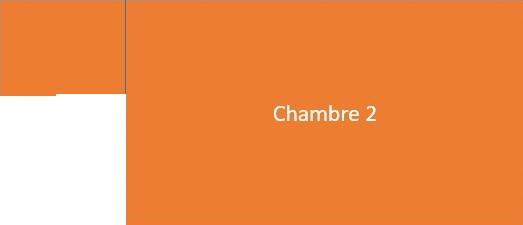
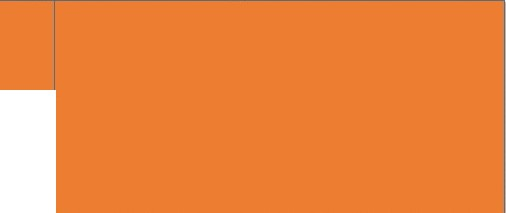
Ajout d'une animation à la page Disponibilite et des liens sur la page descriptif 2

Changed region(s): [[0.0, 0.0, 1.0, 1.0], [0.504, 0.4507, 0.7411, 0.5634]]

diff --git a/src/views/DescriptionView.vue b/src/views/DescriptionView.vue
@@ -193,6 +193,7 @@
                               data-aos="fade-left"
                               data-aos-duration="500"
                               data-aos-easing="ease-in"
+                              class="blinking"
                         >
                               Passer la souris sur le plan pour plus de détails
                         </div>
@@ -241,12 +242,13 @@
                                     data-aos="fade-left"
                                     data-aos-duration="500"
                                     data-aos-easing="ease-in-out"
+                                    :id="description.class"
                               >
                                     {{ description.details }}
                               </li>
 
                               <div
-                                    class="plan"
+                                    class="plan mt-2"
                                     data-aos="fade-left"
                                     data-aos-duration="500"
                                     data-aos-easing="ease-in"
@@ -256,7 +258,14 @@
                                           alt="Plan du 1er étage"
                                     />
                                     <div>
-                                          <button v-on:click="afficheChambre1">
+                                          <button
+                                          v-on:mouseenter="
+                                                afficheChambre2EtageItems
+                                          "
+                                          v-on:mouseleave="
+                                                supprimeChambre2EtageItemsStyle
+                                          "
+                                          >
                                                 <a
                                                       href="/descriptifs/gallerie#chambre1"
                                                 >
@@ -264,11 +273,19 @@
                                                             src="../assets/Etage/etage1_chambre1.jpg"
                                                             alt=""
                                                             class="plan__chambre1"
+                  
                                                       />
                                                 </a>
                                           </button>
 
-                                          <button>
+                                          <button
+                                          v-on:mouseenter="
+                                                afficheChambre1EtageItems
+                                          "
+                                          v-on:mouseleave="
+                                                supprimeChambre1EtageItemsStyle
+                                          "
+                                          >
                                                 <a
                                                       href="/descriptifs/gallerie#chambre2"
                                                 >
@@ -453,8 +470,6 @@ export default {
             };
 
 
-            //
-
             // La salle de bain du rez de chausse
             const afficheSdbRdcItems = () => {
                   const salleDeau = document.getElementById("rdc_salledeau");
@@ -474,6 +489,33 @@ export default {
                   salleDeau.classList.remove("applyActive");
 
                   wc.classList.remove("applyActive");
+            };
+
+            // La chambre 1 du 1er étage
+            const afficheChambre1EtageItems = () => {
+                  const chambre1 = document.getElementById("etage_chambre1");
+
+                  chambre1.classList.add("applyActive");
+            };
+
+            const supprimeChambre1EtageItemsStyle = () => {
+                  const chambre1 = document.getElementById("etage_chambre1");
+
+                  chambre1.classList.remove("applyActive");
+
+            };
+
+            // La chambre 2 du 1er étage
+            const afficheChambre2EtageItems = () => {
+                  const chambre2 = document.getElementById("etage_chambre2");
+
+                  chambre2.classList.add("applyActive");
+            };
+
+            const supprimeChambre2EtageItemsStyle = () => {
+                  const chambre2 = document.getElementById("etage_chambre2");
+
+                  chambre2.classList.remove("applyActive");
             };
 
             const jardinDescription = [
@@ -517,31 +559,35 @@ export default {
                   {
                         id: 1,
                         details: "1 chambre palière (1 lit 1 personne)",
+                        class: "etage_chambre1"
                   },
 
                   {
                         id: 2,
                         details: "Placard",
+                        class: "etage_placard"
                   },
 
                   {
                         id: 3,
                         details: "1 chambre (2 lits 1 personnes)",
+                        class: "etage_chambre2"
                   },
             ];
 
             const rdcDescription = [
+                  {
+                        id: 2,
+                        details: "Salon",
+                        class: "rdc_salon",
+                  },
+
                   {
                         id: 1,
                         details: "Salle à manger",
                         class: "rdc_sam",
                   },
 
-                  {
-                        id: 2,
-                        details: "Salon",
-                        class: "rdc_salon",
-                  },
 
                   {
                         id: 3,
@@ -600,6 +646,10 @@ export default {
                   supprimeSalonItemsStyle,
                   afficheSalleAMangerItems,
                   supprimeSalleAMangerItemsStyle,
+                  afficheChambre1EtageItems,
+                  supprimeChambre1EtageItemsStyle,
+                  afficheChambre2EtageItems,
+                  supprimeChambre2EtageItemsStyle
             };
       },
 };
@@ -615,6 +665,16 @@ export default {
       width: 100%;
       height: 100%;
       object-fit: contain;
+}
+
+.blinking {
+  animation: blink 2s infinite;
+}
+
+@keyframes blink {
+  0% { opacity: 1; }
+  50% { opacity: 0; }
+  100% { opacity: 1; }
 }
 
 .applyActive {
@@ -800,8 +860,8 @@ export default {
 
             &__chambre2 {
                   position: absolute;
-                  width: 55%;
-                  top: 20%;
+                  width: 50%;
+                  top: 22%;
                   right: 11%;
                   opacity: 0;
 

diff --git a/src/views/GalleryView.vue b/src/views/GalleryView.vue
@@ -443,12 +443,15 @@ export default {
 .gallerie {
       width: 100%;
       background: rgba($color: #fff, $alpha: 0.3);
+      position: relative;
 
       &__return {
-            width: 90%;
+            /*width: 90%;
             margin: auto;
             text-align: left;
-            margin-top: 1em;
+            margin-top: 1em;*/
+            position: fixed;
+            transform: translateY(20em);
 
             button {
                   background: rgb(22, 163, 74);
@@ -465,6 +468,8 @@ export default {
       &__frame {
             width: 90%;
             margin: auto;
+            //margin-left: 4em;
+            transform: translateX(2em);
 
             &--images {
                   display: grid;
